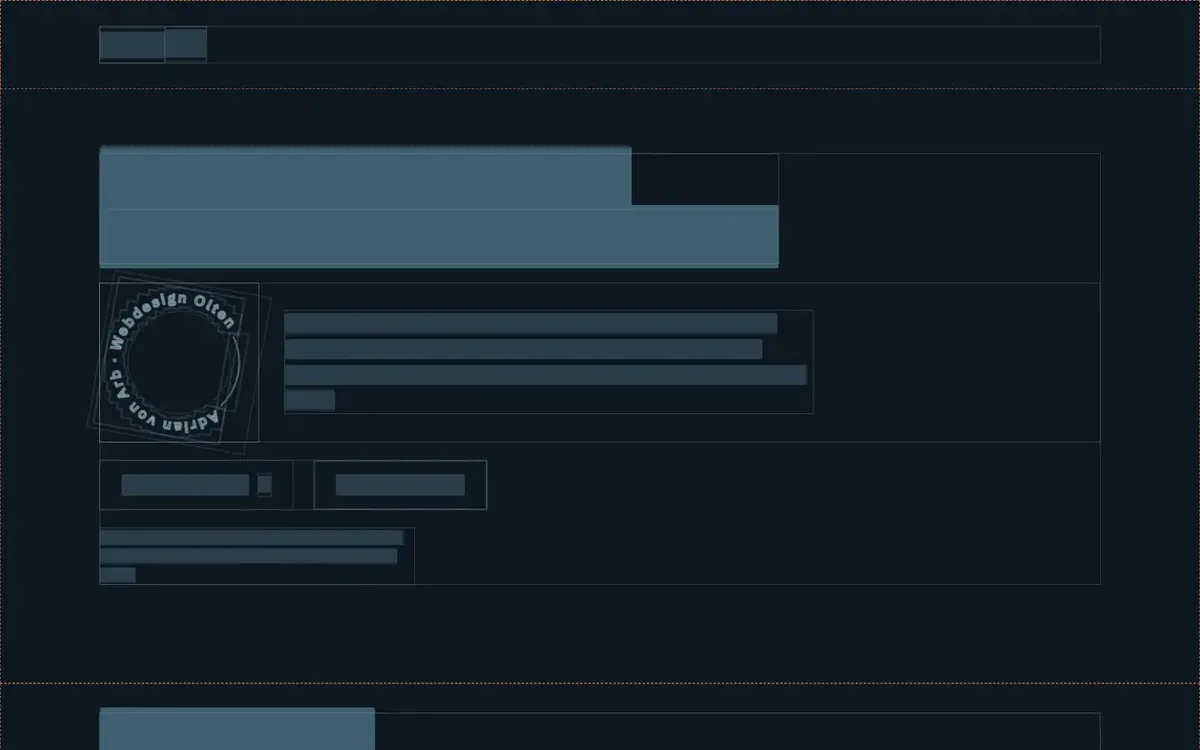
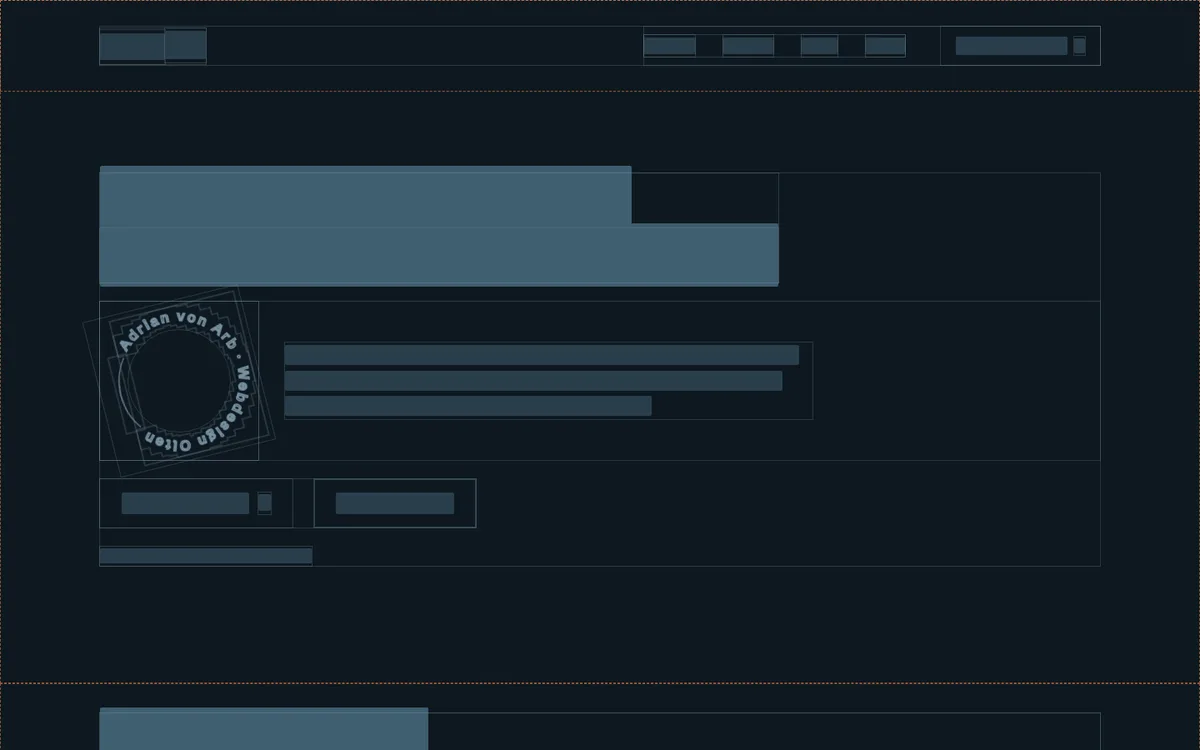
Entwurf v2: Startseiten im Webdesign-Fenster, formateins neu, Shiro statt Cranio
formateins neu aufgenommen von der aktuellen Startseite des Entwurfs.
Die Craniosacral Praxis hat noch keine Fotos, bis dahin zeigt das
Fenster die Demo Shiro von demo.formateins.ch.

Claude-Session: https://claude.ai/code/session_015pCtRnhT116oybLoZGyJBp

diff --git a/entwurf-v2.html b/entwurf-v2.html
@@ -1482,7 +1482,7 @@ html.leiste-da .richtwerk .werkzeugleiste{top:60px}
               <div class="sicht wechsel" style="--v:.625">
                 <figure class="ref ist" data-name="formateins" data-url="formateins.ch"><img src="entwurf-start-formateins-seite.webp" alt="Startseite von formateins" width="1200" height="750" loading="lazy" decoding="async"><img class="plan" src="entwurf-start-formateins-plan.webp" alt="" width="1200" height="750" loading="lazy" decoding="async"><span class="linie" aria-hidden="true"></span></figure>
                 <figure class="ref" data-name="GuardOpS" data-url="guardops.ch"><img src="entwurf-start-guardops-seite.webp" alt="Startseite von GuardOpS" width="1200" height="750" loading="lazy" decoding="async"><img class="plan" src="entwurf-start-guardops-plan.webp" alt="" width="1200" height="750" loading="lazy" decoding="async"><span class="linie" aria-hidden="true"></span></figure>
-                <figure class="ref" data-name="Craniosacral Praxis" data-url="Craniosacral Praxis"><img src="entwurf-start-johann-seite.webp" alt="Startseite der Craniosacral Praxis Johann von Arb" width="1200" height="750" loading="lazy" decoding="async"><img class="plan" src="entwurf-start-johann-plan.webp" alt="" width="1200" height="750" loading="lazy" decoding="async"><span class="linie" aria-hidden="true"></span></figure>
+                <figure class="ref" data-name="Shiro" data-url="demo.formateins.ch/shiro"><img src="entwurf-start-shiro-seite.webp" alt="Startseite von Shiro, einem Demo-Projekt für ein Restaurant" width="1200" height="750" loading="lazy" decoding="async"><img class="plan" src="entwurf-start-shiro-plan.webp" alt="" width="1200" height="750" loading="lazy" decoding="async"><span class="linie" aria-hidden="true"></span></figure>
               </div>
             </div>
           </div>

diff --git a/README.md b/README.md
@@ -22,7 +22,7 @@ Schriften liegen selbst im Projekt (`schriften/`, `schriften.css`).
 | `schriften/`, `schriften.css` | Selbst ausgelieferte Schriften, siehe `schriften/LIZENZ.md` |
 | `quellen/` | Vorlagen fuer Teilen-Bild und Favicon, siehe unten |
 | `archiv/` | Frühere Entwurfsrichtungen, nicht mehr aktuell |
-| `entwurf*.html`, `entwurf-leiste.css`, `entwurf-leiste.js` | Entwürfe, nur auf Pages sichtbar (siehe CLAUDE.md). `entwurf.html` ist der Stand vom 24.10.2026 (v1, eingefroren), weitergearbeitet wird in `entwurf-v2.html`; die Unterseiten und die Leiste teilen sich beide. v2 (25.10.2026): Die drei Richtungen sind der Tisch, ein Klick auf Fenster, Blatt oder Telefon zoomt wie auf der Live-Seite in die Werkbank-Fläche (Punktraster, Auswahl mit Massen, Inspektor, Werkzeugleiste); die Werkbank-Optik gibt es nur im Zoom, die Übersicht bleibt die Reihe ohne Kasten. Markenblatt als Konstruktionsblatt (Fassung B: Wortmarke mit Grundlinie, x-Höhe, Schutzraum und Massen als SVG); seit dem 26.10.2026 ein einziges Blatt, das entsteht, solange es im Bild ist (Reihe und Stand): Raster und Wortmarke in Playfair 900 stehen sofort, dann wird «eins» Signal, Konstruktionslinien und Masse ziehen sich, Farbfelder probieren Blau, Grün und Ocker und rasten ein, zuletzt Schriften, Regeln und Dunkelprobe; nach vier Sekunden fertig und sofort wieder von vorn (alle 4,3 Sekunden), bei abgeschalteter Bewegung fertig. Ablauf und Zeiten im CSS unter «Das Blatt entsteht». Die Website fährt im kleinen Fenster langsam durch. Im Stand zeigt das Fenster seit dem 27.10.2026 keine ganze Seite mehr, sondern drei Startseiten im Wechsel (formateins, GuardOpS, Craniosacral Praxis; `entwurf-start-*-seite.webp` und `-plan.webp`, die obersten 900 Pixel der Aufnahmen auf 1200 × 750): jede steht kurz als Bauplan da, dann zieht die orange Linie durch, alle 3,6 Sekunden die nächste; links die Schlagwörter als Pfeile wie bei Branding und Video. Der Schieber Bauplan/Seite ist dafür weg. Der formateins-Ausschnitt stammt aus der alten Aufnahme und wird neu gemacht, sobald die Startseite steht. Nach «Gebaut, nicht behauptet» folgt der Ablauf «So läuft es ab» in zwei Spalten: links Titel, Satz und Knopf (ab 900 Pixeln angedockt, fährt mit), rechts vier nummerierte Schritte; der orange Balken daneben füllt sich mit dem Scrollen (Leselinie bei 72 Prozent der Fensterhöhe), die Nummern färben sich, sobald er sie erreicht. «Passen wir zusammen?» ist der einzige mittige Abschnitt: Titel und Satz mittig, darunter zwei Boxen mit je vier Punkten («Passt, wenn du …» / «Passt nicht, wenn du …»); die Passt-Box ist orange gerahmt mit leisem Schein, am Zeiger läuft darin die Taschenlampe von der Live-Seite. Die Arbeiten sind Referenzkarten (Bildschirm und Handy, Nummer, Kategorie, Name, Kennwerte als Chips, Link zur Projektseite); der Prüfstand (die Seite selbst im Rahmen, mit Griff und drei Breiten) steht jetzt auf den Projektseiten `entwurf-arbeiten-*.html` unter «Die Seite selbst». «Wer das macht» ist eine Karte in derselben Form: Foto randlos links in voller Höhe, Text rechts, am Handy Foto oben. Texte in den Ständen und im Ablauf sind Entwurfstext. Die drei Richtungen heissen Webdesign, Branding und Video («Branding» nutzen fast alle Agenturen, «Marke» niemand; vom 25. bis 26.10.2026 hiess die dritte Motion Design, seit dem 27.10.2026 wieder Video, weil das jeder versteht; «Kreation» und «Content» verworfen, weil sie die anderen Bereiche mit einschliessen); die Bereichsseiten heissen `entwurf-branding.html` und `entwurf-video.html`, `entwurf-marke.html` und `entwurf-motion.html` leiten weiter, damit alte Links ankommen. Die Leiste: Menü mit Bereiche, Arbeiten, Preise, Fragen und Knopf, in Kopfzeile und Mitlaufleiste, am Handy als Menüknopf mit offener Liste; auf allen Entwurfsseiten dieselbe. Beim Livegang in `leiste.css`/`leiste.js` umbenennen oder in die Seiten nehmen. `entwurf-kostenrechner.html` und `entwurf-gespraech.html` sind Kopien der Live-Seiten, bei denen nur die Rückwege (Logo, Querlinks) in den Entwurf v2 führen statt auf die Live-Startseite; Inhalt gehört in die Originale, die Kopien verschwinden mit der Abnahme. Impressum und Datenschutz bleiben die Live-Seiten |
+| `entwurf*.html`, `entwurf-leiste.css`, `entwurf-leiste.js` | Entwürfe, nur auf Pages sichtbar (siehe CLAUDE.md). `entwurf.html` ist der Stand vom 24.10.2026 (v1, eingefroren), weitergearbeitet wird in `entwurf-v2.html`; die Unterseiten und die Leiste teilen sich beide. v2 (25.10.2026): Die drei Richtungen sind der Tisch, ein Klick auf Fenster, Blatt oder Telefon zoomt wie auf der Live-Seite in die Werkbank-Fläche (Punktraster, Auswahl mit Massen, Inspektor, Werkzeugleiste); die Werkbank-Optik gibt es nur im Zoom, die Übersicht bleibt die Reihe ohne Kasten. Markenblatt als Konstruktionsblatt (Fassung B: Wortmarke mit Grundlinie, x-Höhe, Schutzraum und Massen als SVG); seit dem 26.10.2026 ein einziges Blatt, das entsteht, solange es im Bild ist (Reihe und Stand): Raster und Wortmarke in Playfair 900 stehen sofort, dann wird «eins» Signal, Konstruktionslinien und Masse ziehen sich, Farbfelder probieren Blau, Grün und Ocker und rasten ein, zuletzt Schriften, Regeln und Dunkelprobe; nach vier Sekunden fertig und sofort wieder von vorn (alle 4,3 Sekunden), bei abgeschalteter Bewegung fertig. Ablauf und Zeiten im CSS unter «Das Blatt entsteht». Die Website fährt im kleinen Fenster langsam durch. Im Stand zeigt das Fenster seit dem 27.10.2026 keine ganze Seite mehr, sondern drei Startseiten im Wechsel (formateins, GuardOpS und die Demo Shiro von demo.formateins.ch, bis die Craniosacral Praxis ihre Fotos hat; `entwurf-start-*-seite.webp` und `-plan.webp`, die obersten 900 Pixel der Aufnahmen auf 1200 × 750): jede steht kurz als Bauplan da, dann zieht die orange Linie durch, alle 3,6 Sekunden die nächste; links die Schlagwörter als Pfeile wie bei Branding und Video. Der Schieber Bauplan/Seite ist dafür weg. formateins ist die Startseite von `entwurf-v2.html` (Stand 27.10.2026) und wird neu aufgenommen, wenn sich ihr Kopf ändert. Der Bauplan entsteht mit `quellen/bauplan.js`, bei Shiro zusätzlich mit `img,video{opacity:0!important}`, weil das Bild sonst durchscheint. Nach «Gebaut, nicht behauptet» folgt der Ablauf «So läuft es ab» in zwei Spalten: links Titel, Satz und Knopf (ab 900 Pixeln angedockt, fährt mit), rechts vier nummerierte Schritte; der orange Balken daneben füllt sich mit dem Scrollen (Leselinie bei 72 Prozent der Fensterhöhe), die Nummern färben sich, sobald er sie erreicht. «Passen wir zusammen?» ist der einzige mittige Abschnitt: Titel und Satz mittig, darunter zwei Boxen mit je vier Punkten («Passt, wenn du …» / «Passt nicht, wenn du …»); die Passt-Box ist orange gerahmt mit leisem Schein, am Zeiger läuft darin die Taschenlampe von der Live-Seite. Die Arbeiten sind Referenzkarten (Bildschirm und Handy, Nummer, Kategorie, Name, Kennwerte als Chips, Link zur Projektseite); der Prüfstand (die Seite selbst im Rahmen, mit Griff und drei Breiten) steht jetzt auf den Projektseiten `entwurf-arbeiten-*.html` unter «Die Seite selbst». «Wer das macht» ist eine Karte in derselben Form: Foto randlos links in voller Höhe, Text rechts, am Handy Foto oben. Texte in den Ständen und im Ablauf sind Entwurfstext. Die drei Richtungen heissen Webdesign, Branding und Video («Branding» nutzen fast alle Agenturen, «Marke» niemand; vom 25. bis 26.10.2026 hiess die dritte Motion Design, seit dem 27.10.2026 wieder Video, weil das jeder versteht; «Kreation» und «Content» verworfen, weil sie die anderen Bereiche mit einschliessen); die Bereichsseiten heissen `entwurf-branding.html` und `entwurf-video.html`, `entwurf-marke.html` und `entwurf-motion.html` leiten weiter, damit alte Links ankommen. Die Leiste: Menü mit Bereiche, Arbeiten, Preise, Fragen und Knopf, in Kopfzeile und Mitlaufleiste, am Handy als Menüknopf mit offener Liste; auf allen Entwurfsseiten dieselbe. Beim Livegang in `leiste.css`/`leiste.js` umbenennen oder in die Seiten nehmen. `entwurf-kostenrechner.html` und `entwurf-gespraech.html` sind Kopien der Live-Seiten, bei denen nur die Rückwege (Logo, Querlinks) in den Entwurf v2 führen statt auf die Live-Startseite; Inhalt gehört in die Originale, die Kopien verschwinden mit der Abnahme. Impressum und Datenschutz bleiben die Live-Seiten |
 | `entwurf-video-spot.mp4`, `.webm`, `.jpg` | Der Spot im Telefon der dritten Richtung (Video), ohne Ton, 720 px hoch, dazu das Standbild. Aus der Quelle neu bauen: `ffmpeg -i QUELLE.mp4 -an -vf scale=-2:720 -c:v libx264 -crf 27 -preset slow -movflags +faststart entwurf-video-spot.mp4`, dasselbe mit `-c:v libvpx-vp9 -crf 36 -b:v 0` als `.webm`, Standbild mit `-ss 5.2 -frames:v 1`. Beide Fassungen, weil Chromium ohne Lizenz kein H.264 spielt |
 | `entwurf-video-spot-ton.mp4`, `.webm` | Derselbe Spot mit Ton, für den Motion-Stand mit Tonknopf (das Video trägt `data-ton`). Die Richtung oben behält den stummen Spot. Aus Adrians Fassung mit Ton (26.10.2026): `ffmpeg -i QUELLE.mp4 -vf scale=406:720:flags=lanczos -c:v libx264 -profile:v main -preset slow -crf 28 -c:a aac -b:a 96k -ac 2 -movflags +faststart entwurf-video-spot-ton.mp4`, als `.webm` mit `-c:v libvpx-vp9 -crf 40 -b:v 0 -c:a libopus -b:a 96k` |
 
